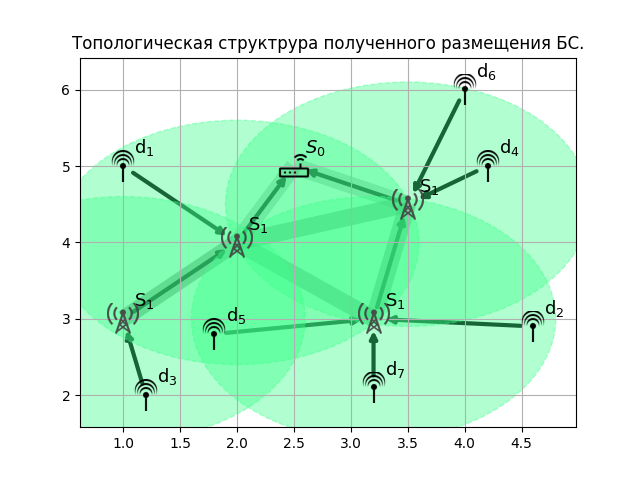
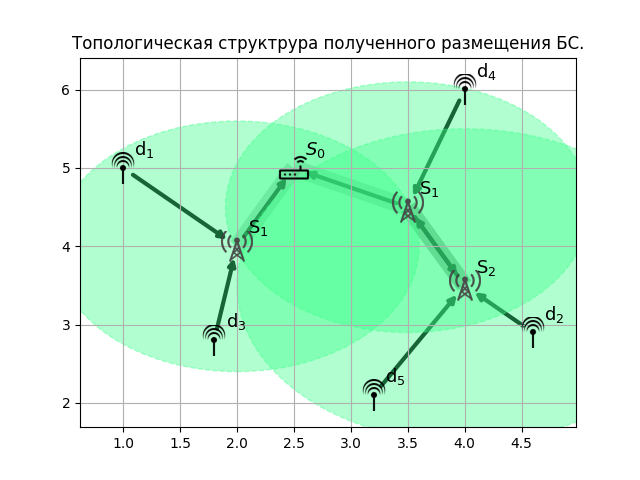
refactored drawing of link distandces

diff --git a/src/drawing/draw.py b/src/drawing/draw.py
@@ -1,6 +1,7 @@
 import networkx as nx
 import matplotlib.pyplot as plt
 import pandas as pd
+import numpy as np
 import PIL
 
 
@@ -145,7 +146,8 @@ def prepare_draw_graph(net: Network, problem: MIP, solution: pd.Series
                      net.station[j]["coordinates"][0]) ** 2 +
                     (net.station[i]["coordinates"][1] -
                      net.station[j]["coordinates"][1]) ** 2)
-                if _distance <= net.station[i]["link_distance"]:
+                if ((_distance <= net.station[i]["link_distance"])
+                        and (_distance <= net.station[j]["link_distance"])):
                     draw_link_distance.add_edge(i, j)
                     draw_link_distance_pos.update(
                         {i: net.station[i]["coordinates"]})
@@ -157,6 +159,8 @@ def prepare_draw_graph(net: Network, problem: MIP, solution: pd.Series
                      net.gateway[j]["coordinates"][1]) ** 2)
                 if _distance <= net.station[i]["link_distance"]:
                     draw_link_distance.add_edge(i, j)
+                    draw_link_distance_pos.update(
+                        {i: net.station[i]["coordinates"]})
     draw_link_distance_pos.update({0: net.gateway[0]["coordinates"]})
 
     return [draw_graph, draw_link_distance, pos, draw_link_distance_pos, sta]

diff --git a/problem_solution.py b/problem_solution.py
@@ -58,7 +58,7 @@ def prepare_input_data(data: Dict) -> InputData:
 
 
 if __name__ == "__main__":
-    with open("./problem.json") as f:
+    with open("./problem_test_2.json") as f:
         data_from_json = json.load(f)
 
     solver = "gurobi"
@@ -68,7 +68,7 @@ if __name__ == "__main__":
     net = create_graph(input_data)
 
     problem = create_mipop(input_data, net)
-
+    draw_input_data(net)
     if solver == 'gurobi':
         x = src.gurobi.milp_problem.solve(problem)
     else:
@@ -85,7 +85,7 @@ if __name__ == "__main__":
     placed_station = solution[problem.of.column.y].values
     # placed_station.tolist()
 
-    draw_input_data(net)
+
     draw_mip_graph(net, problem, solution)
 
     debug = 1
